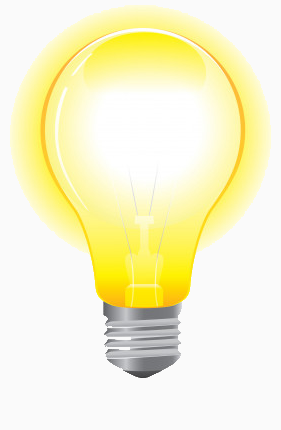
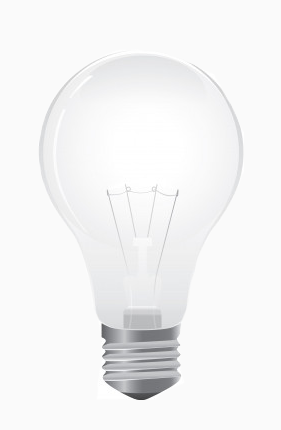
El Feneri Eklendi

diff --git a/lib/arayuz/elfeneri.dart b/lib/arayuz/elfeneri.dart
@@ -2,19 +2,20 @@ import 'package:flutter/material.dart';
 import 'package:lamp/lamp.dart';
 import 'dart:async';
 
-class ElFeneri extends StatefulWidget {
+class ElFeneri extends StatefulWidget{
   @override
   State<StatefulWidget> createState() => FenerState();
 
 }
 
-class  FenerState extends State<ElFeneri> {
 
-  bool _flashVarmi=false;
-  bool _acikmi=false;
+
+class FenerState extends State<ElFeneri>{
+  
+  bool _flashVarMi = false;
+  bool _acikMi = false;
   double _siddeti=1.0;
-  String labma="lampon";
-  String buton="Flash Aç";
+  String lamba="lampoff", btn="Aç", btnRenk="red";
 
   @override
   void initState() {
@@ -24,48 +25,50 @@ class  FenerState extends State<ElFeneri> {
   }
 
   ilkAcilis() async {
-    bool flashVarmi=await Lamp.hasLamp;
-    setState(() { //geri yapma yeniden hot reload yap he R yapıyom bak ordaki Toast mesaj çııyı sayfa açilmiy benim aklıma gelen benim burada kulalndığım resimin o içerdeki widgete sığmaması _?
-     _flashVarmi = flashVarmi; 
+    bool flashVarMi =await Lamp.hasLamp;
+    setState(() {
+     _flashVarMi = flashVarMi; 
     });
   }
 
   Future _feneriAc() async {
-    
-    if (_acikmi){
+    if(_acikMi) {
       Lamp.turnOff();
-      labma="$labma";
-      buton="Aç";
+      lamba="lampoff";
+      btn="Aç";      
     }
-    else {
+    else{
       Lamp.turnOn(intensity: _siddeti);
-      labma="lampoff.png";
-      buton="Kapat";
+      lamba="lampon";
+      btn="Kapat";
     }
     var v =await Lamp.hasLamp;
     setState(() {
-     _flashVarmi = v;
-     _acikmi = !_acikmi; 
+     _flashVarMi = v;
+     _acikMi = !_acikMi; 
     });
-}
+  }
 
-  
   @override
   Widget build(BuildContext context) {
+    
     return Scaffold(
-      appBar: AppBar(
-        title: Text("El Feneri"),
+      appBar: AppBar(title: Text("El Feneri Uygulaması"),
       ),
-      body: Column(
+      body: new Center(
+      child: Column(
         mainAxisAlignment: MainAxisAlignment.center,
         children: <Widget>[
-          Image.asset("assets/images/lampoff.png"),
+          Image.asset("assets/images/$lamba.png"),
           RaisedButton(
-            child: Text("Feneri Aç"),
-            onPressed: ()=> _feneriAc(),
+            color: Colors.red,
+            child: Text("Feneri $btn", style: TextStyle(color: Colors.white, fontSize: 20.0),),
+            onPressed: _feneriAc,
           ),
         ],
       ),
+      ),
     );
-  } 
+  }
+
 }

diff --git a/lib/main.dart b/lib/main.dart
@@ -10,7 +10,7 @@ import 'arayuz/jsonkonusu.dart';
 import 'arayuz/localjsonkonusu.dart';
 import 'arayuz/basithttp.dart';
 import 'arayuz/elfeneri.dart';
-//import 'package:fluttertoast/fluttertoast.dart';
+import 'package:fluttertoast/fluttertoast.dart';
 
 
 void main () {
